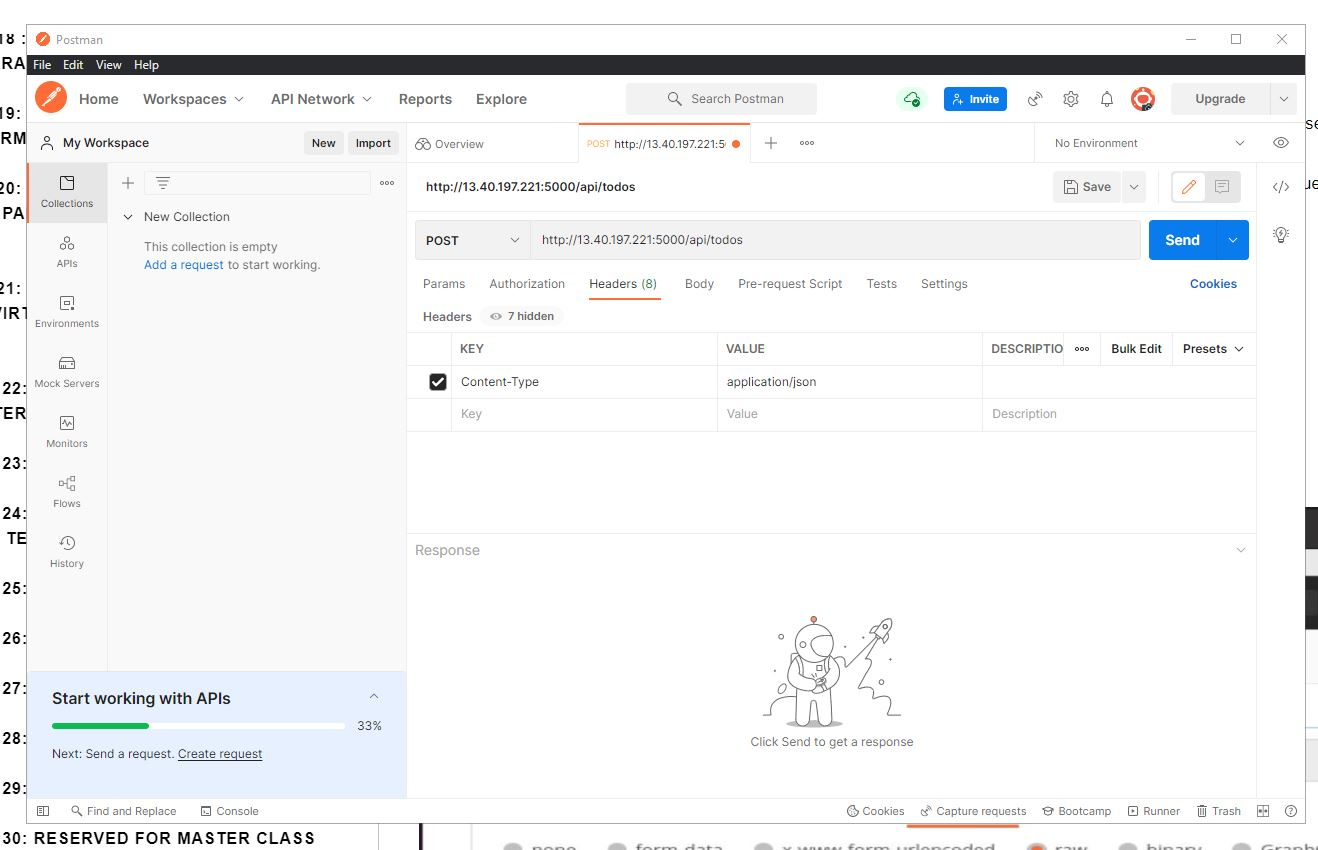
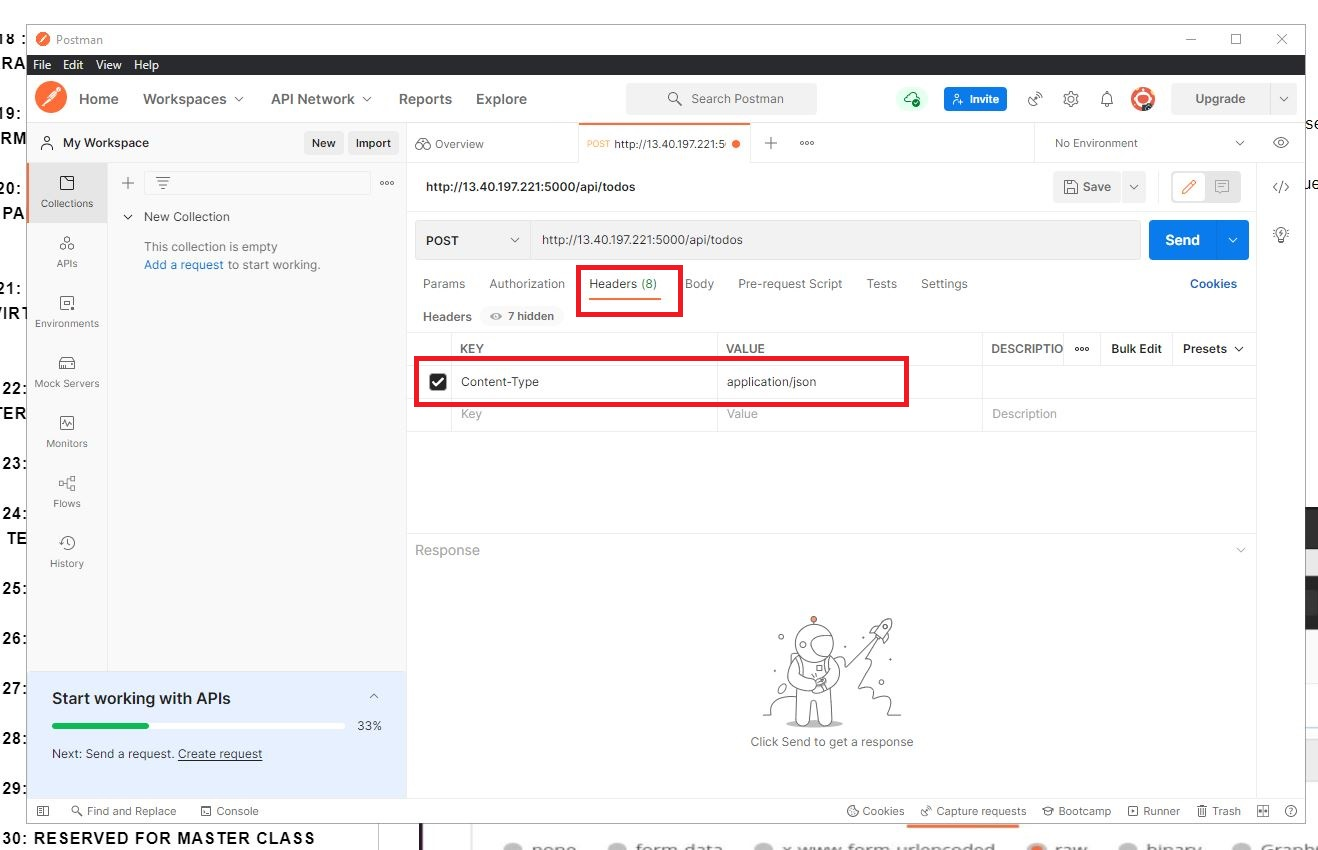
Writing to Project-3

Changed region(s): [[0.3111, 0.3059, 0.6844, 0.4894], [0.6844, 0.4282, 0.7155, 0.4588]]

diff --git a/project3.md b/project3.md
@@ -369,6 +369,14 @@ In this project, we will use [Postman](https://www.postman.com/) to test our API
 
 Test all the API endpoints and make sure they are working. For the endpoints that require body, I will send JSON back with the necessary fields since it’s what I setup in my code.
 
-Now open Postman, create a POST request to the API http://<PublicIP-or-PublicDNS>:5000/api/todos. This request sends a new task to our To-Do list so the application could store it in the database.
+Now open Postman, create a POST request to the *API http://<PublicIP-or-PublicDNS>:5000/api/todos*. 
+
+This request sends a new task to our To-Do list so the application could store it in the database.
 
 Note: make sure your set header key Content-Type as application/json
+
+![alt text](./Images/Post%20man.JPG)
+
+In the body type in an action "action":"Working on Project - 3"
+
+![alt text](./Images/Post%20man%202.JPG)
